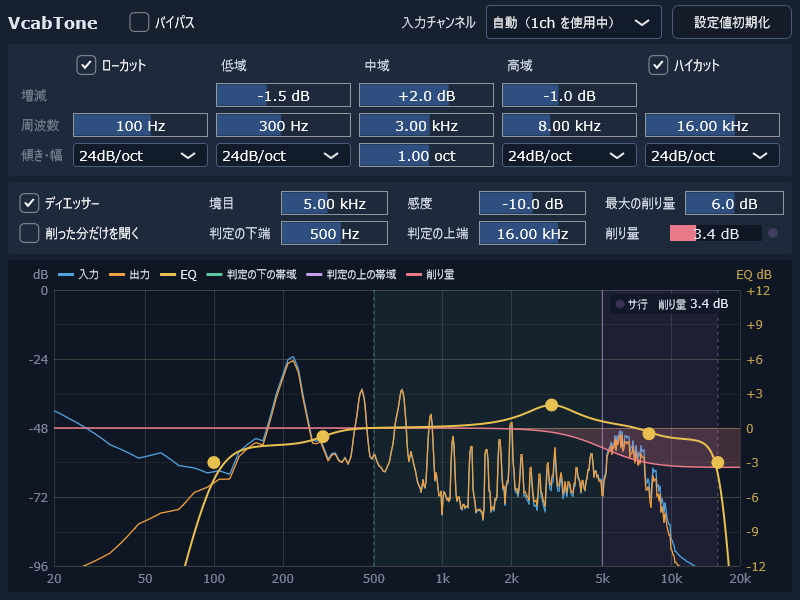
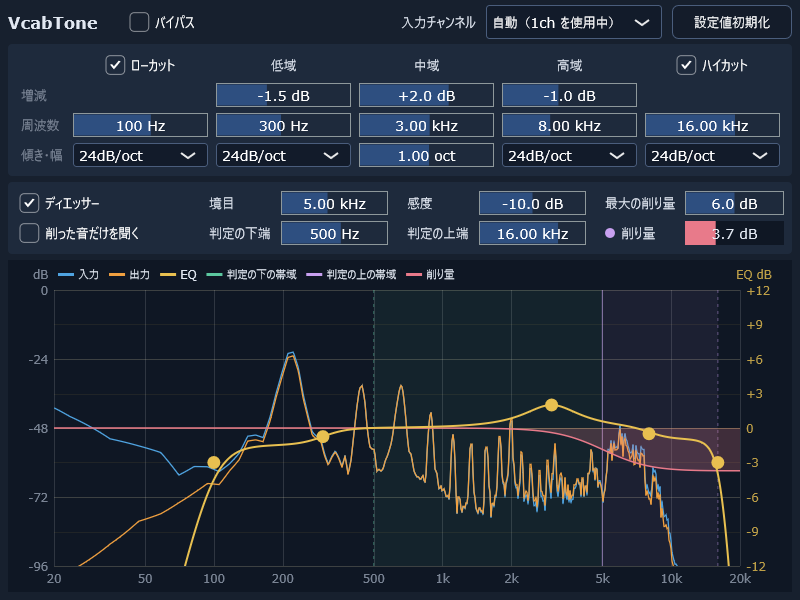
1.0.1

diff --git a/Source/Plugin/PluginEditor.cpp b/Source/Plugin/PluginEditor.cpp
@@ -12,6 +12,8 @@ constexpr int kInputComboWidth = 176; // VcabDenoise・VcabShift の入力チャ
 constexpr int kLabelInset = 5;        // Label の文字の左の余白（JUCE の標準）
 constexpr int kLabelGap = 10;         // 名前と部品の隙間
 constexpr int kTimerHz = 30;
+// チェックボックスの、文字より左の幅（LookAndFeel の drawToggleButton: 左の余白 4 ＋ 箱 ＋ 隙間）
+constexpr int kToggleBox = 4 + static_cast<int> (VCLookAndFeel::kMinFontSize * 1.1f) + 6;
 
 // EQ の 5 列（ローカット、低域、中域、高域、ハイカット）の、行ごとのパラメータ（count は空き）
 const vcab::P kEqGrid[5][3] = {
@@ -109,6 +111,7 @@ VcabToneEditor::VcabToneEditor (VcabToneProcessor& p)
         eqTitles[k].setText (utf8 (vcab::paramInfo (titled[k]).name), juce::dontSendNotification);
         eqTitles[k].setColour (juce::Label::textColourId, kText);
         eqTitles[k].setTooltip (utf8 (vcab::paramInfo (titled[k]).help));
+        eqTitles[k].setJustificationType (juce::Justification::centred);
         addAndMakeVisible (eqTitles[k]);
     }
     for (const auto& column : kEqGrid)
@@ -126,7 +129,7 @@ VcabToneEditor::VcabToneEditor (VcabToneProcessor& p)
     control (vcab::P::deessHigh)->slider->limit = [this] (double v)
     { return std::max (v, static_cast<double> (proc.value (vcab::P::deessSplit) * vcab::kDeessMinRatio)); };
 
-    listenButton.setButtonText (utf8 ("削った分だけを聞く"));
+    listenButton.setButtonText (utf8 ("削った音だけを聞く"));
     listenButton.setTooltip (utf8 ("ディエッサーが削った音だけを出します（何を削っているかを耳で確かめるため）。"
                                    "母音まで聞こえたら、削りすぎです（感度を上げるか、最大の削り量を下げます）。設定には保存しません。"));
     listenButton.setToggleState (proc.listenRemoved.load(), juce::dontSendNotification);
@@ -186,18 +189,17 @@ VcabToneEditor::Control* VcabToneEditor::control (vcab::P id)
 
 void VcabToneEditor::CutMeter::paint (juce::Graphics& g)
 {
+    // 左: サ行の検出のランプと「削り量」。バーは、上の「最大の削り量」のつまみと同じ位置・大きさ
     auto r = getLocalBounds().toFloat();
     const float maxDb = vcab::paramInfo (vcab::P::deessMaxCut).maxValue;
     const float cut = graph.displayCutDb();
     g.setFont (juce::FontOptions (kFont));
-    g.setColour (kText);
-    auto labelBox = r.removeFromLeft (70.0f);
-    g.drawText (utf8 ("削り量"), labelBox.withTrimmedLeft (kLabelInset), juce::Justification::centredLeft);
-    // 右端にサ行の検出の印
-    auto mark = r.removeFromRight (22.0f);
+    auto labelBox = r.removeFromLeft (static_cast<float> (labelWidth));
+    const auto lamp = juce::Rectangle<float> (10.0f, 10.0f).withCentre ({ labelBox.getX() + kLabelInset + 5.0f, labelBox.getCentreY() });
     g.setColour (graph.sibilantLit() ? kSibilantColour : kSibilantColour.withAlpha (0.18f));
-    g.fillEllipse (juce::Rectangle<float> (10.0f, 10.0f).withCentre (mark.getCentre()));
-    r = r.reduced (0.0f, 4.0f);
+    g.fillEllipse (lamp);
+    g.setColour (kText);
+    g.drawText (utf8 ("削り量"), labelBox.withTrimmedLeft (lamp.getRight() + 6.0f - labelBox.getX()), juce::Justification::centredLeft);
     g.setColour (kGraph);
     g.fillRect (r);
     g.setColour (kCutColour);
@@ -261,11 +263,14 @@ void VcabToneEditor::resized()
         {
             auto col = s.removeFromLeft (colW);
             s.removeFromLeft (gap);
+            // 見出しは列の真ん中にそろえる（カットはチェックボックスの箱と文字をまとめて真ん中に）
             auto title = col.removeFromTop (kRow).reduced (0, 3);
-            if (c == 0)
-                control (vcab::P::lowCutOn)->toggle->setBounds (title);
-            else if (c == 4)
-                control (vcab::P::highCutOn)->toggle->setBounds (title);
+            if (c == 0 || c == 4)
+            {
+                auto* t = control (c == 0 ? vcab::P::lowCutOn : vcab::P::highCutOn)->toggle.get();
+                const int w = juce::jmin (title.getWidth(), kToggleBox + textWidth (t->getButtonText()) + 4);
+                t->setBounds (title.withSizeKeepingCentre (w, title.getHeight()));
+            }
             else
                 eqTitles[c - 1].setBounds (title);
             for (int row = 0; row < 3; ++row)
@@ -283,7 +288,7 @@ void VcabToneEditor::resized()
         }
     }
 
-    // ディエッサーの帯（2 行）: オン/オフ・削った分だけを聞く ｜ 境目・判定の下端 ｜ 感度・判定の上端 ｜ 最大の削り量・メーター
+    // ディエッサーの帯（2 行）: オン/オフ・削った音だけを聞く ｜ 境目・判定の下端 ｜ 感度・判定の上端 ｜ 最大の削り量・メーター
     r.removeFromTop (6);
     deessArea = r.removeFromTop (kRow * 2 + 12);
     {
@@ -322,6 +327,7 @@ void VcabToneEditor::resized()
         place (vcab::P::deessHigh, col2.removeFromTop (kRow), l2);
         const int l3 = labelW ({ vcab::P::deessMaxCut });
         place (vcab::P::deessMaxCut, col3.removeFromTop (kRow), l3);
+        meter.labelWidth = l3;
         meter.setBounds (col3.removeFromTop (kRow).reduced (0, 3));
     }
 
@@ -350,7 +356,7 @@ void VcabToneEditor::timerCallback()
     dim (vcab::P::highCutSlope, s.eq.highCutOn);
     for (auto id : { vcab::P::deessSplit, vcab::P::deessSensitivity, vcab::P::deessMaxCut, vcab::P::deessLow, vcab::P::deessHigh })
         dim (id, s.deess.on);
-    // バイパスのとき、削った分だけを聞くは効かない
+    // バイパスのとき、削った音だけを聞くは効かない
     listenButton.setEnabled (! s.bypass && s.deess.on);
     meter.repaint();
 

diff --git a/Source/Plugin/GraphView.cpp b/Source/Plugin/GraphView.cpp
@@ -398,20 +398,7 @@ void GraphView::paint (juce::Graphics& g)
     }
 
     g.restoreState();
-
-    // 右上: サ行の検出と削り量（グラフの中）
-    {
-        const bool lit = sibilantLit() && d.on;
-        const auto text = utf8 ("サ行") + utf8 ("　削り量 ") + juce::String (shownCut, 1) + " dB";
-        const float w = juce::GlyphArrangement::getStringWidth (g.getCurrentFont(), text) + 26.0f;
-        const auto box = juce::Rectangle<float> (a.getRight() - w - 4.0f, a.getY() + 4.0f, w, 20.0f);
-        g.setColour (kGraph.withAlpha (0.8f));
-        g.fillRect (box);
-        g.setColour (lit ? kSibilantColour : kSibilantColour.withAlpha (0.2f));
-        g.fillEllipse (juce::Rectangle<float> (9.0f, 9.0f).withCentre ({ box.getX() + 10.0f, box.getCentreY() }));
-        g.setColour (d.on ? kText : kDim);
-        g.drawText (text, box.withTrimmedLeft (18.0f), juce::Justification::centredLeft);
-    }
+    // サ行の検出と削り量の数字は、ディエッサーの帯のメーターに出す（グラフには出さない。2026-11-26）
 }
 
 void GraphView::setParam (vcab::P id, float v)

diff --git a/Tools/Render/Main.cpp b/Tools/Render/Main.cpp
@@ -3,7 +3,7 @@
 // キーは Params.cpp の key（例: low_cut_freq=120 mid_gain=2 deess_sensitivity=-15）。値は表の範囲（つまみの範囲）に収める（収めたときは知らせる）。
 // 入力が 2 チャンネル以上のときは、input_channel の 1ch（初期値の「自動」も 1ch）/ 2ch / 平均 で 1 チャンネルにする。
 // --block n: 1 回に処理する標本の数（初期値 256）。
-// --listen: 削った分だけを聞く。
+// --listen: 削った音だけを聞く。
 // --trace: ディエッサーの区切り（約 1ms）ごとの { 時刻, 上の帯域, 下の帯域, 平均, 雑音, 目標の削り量, 声, サ行らしい } を CSV に書く（dB）。
 // --response: その設定の EQ の特性（周波数と dB）を CSV に書く（画面の曲線と同じ計算）。
 // --set-at 秒 キー=値: その時刻から設定を変える（複数可。つまみを動かしたときのなめらかさを確かめるため）。

diff --git a/Source/Core/Engine.h b/Source/Core/Engine.h
@@ -1,4 +1,4 @@
-// 全体の処理（2 章）: EQ → ディエッサー → 「削った分だけを聞く」とバイパスのクロスフェード。
+// 全体の処理（2 章）: EQ → ディエッサー → 「削った音だけを聞く」とバイパスのクロスフェード。
 // 入力チャンネルの選択はプラグインの側（PluginProcessor::mixToMono。VcabDenoise と同じ形）で行い、ここには 1 チャンネルを渡す。
 // JUCE には依存しない。遅延は 0。
 #pragma once
@@ -25,7 +25,7 @@ class Engine
 public:
     void prepare (double fs, int maxBlock);
     void setSettings (const Settings& s);
-    // 削った分だけを聞く（設定には保存しない。6.3）
+    // 削った音だけを聞く（設定には保存しない。6.3）
     void setListenRemoved (bool on) { listenRemoved = on; }
 
     // data: 入力（1 チャンネル）を受け取り、出力に書き換える

diff --git a/Source/Plugin/PluginProcessor.h b/Source/Plugin/PluginProcessor.h
@@ -82,7 +82,7 @@ public:
     double sampleRate() const { return currentSampleRate.load(); }
     SpectrumFifo inputFifo, outputFifo;
     std::atomic<int> usedInputChannel { 0 }; // 自動のときに使っている入力チャンネル（0 = 1ch、1 = 2ch）
-    // 削った分だけを聞く（確かめるための切り替え。設定には保存しない。6.3）
+    // 削った音だけを聞く（確かめるための切り替え。設定には保存しない。6.3）
     std::atomic<bool> listenRemoved { false };
 
     // EXE 版だけ、外枠が入れる。音声の設定画面を開く（VST3 では空のまま）

diff --git a/Tools/Shot/Main.cpp b/Tools/Shot/Main.cpp
@@ -3,7 +3,7 @@
 // --at: 何秒流したところで撮るか（初期値 2 秒）
 // --tooltip x,y: 画面の中の (x, y) にマウスを乗せたときのツールチップも描き込む（出る位置の確かめ用）
 // --scale n: n 倍の解像度で描く（紹介画像用。初期値 1）
-// --listen: 削った分だけを聞く をオンにして撮る
+// --listen: 削った音だけを聞く をオンにして撮る
 #include "PluginProcessor.h"
 
 #include <juce_audio_formats/juce_audio_formats.h>

diff --git a/Source/Core/Engine.cpp b/Source/Core/Engine.cpp
@@ -7,7 +7,7 @@ namespace vcab
 
 namespace
 {
-constexpr double kMixSeconds = 0.010; // バイパスと「削った分だけを聞く」の切り替え（VcabDenoise と同じ 10ms）
+constexpr double kMixSeconds = 0.010; // バイパスと「削った音だけを聞く」の切り替え（VcabDenoise と同じ 10ms）
 }
 
 void Engine::prepare (double sampleRate, int block)

diff --git a/Source/Plugin/PluginEditor.h b/Source/Plugin/PluginEditor.h
@@ -52,6 +52,7 @@ private:
     public:
         explicit CutMeter (GraphView& g) : graph (g) {}
         void paint (juce::Graphics&) override;
+        int labelWidth = 70; // 名前の欄の幅（上の「最大の削り量」の名前の欄と同じにする）
     private:
         GraphView& graph;
     };

diff --git a/CLAUDE.md b/CLAUDE.md
@@ -1,6 +1,6 @@
 # VcabTone 仕様
 
-最終更新: 2026-11-25（中域の初期値を 3kHz、高域を 8kHz・範囲を 6〜14kHz に（3 章）。ディエッサーの感度 -10dB と最大の削り量 6dB はこのまま（4.5））。2026-11-25（低域・高域の傾きの初期値を 24 に（3 章））。2026-11-25（1.0.0 を作った。作るときに決めた値は 3 章の「傾きの作り方」、6.4、11 章）。2026-11-25（35 本の声で測り、境目の初期値を 5kHz、判定の下端を 500Hz に決めた。削るかどうかを「その瞬間の上下の比」で決める条件を足した（4.1、4.5）。声とみなす下限を -80dBFS に。2 本目の帯域は作らない。測った結果は 9.1）。2026-11-25（最初の版。名前は VcabTone、EQ の帯域は低域・中域・高域に決定。まだ作っていない。数値のうち「測って決める」と書いたものは仮）
+最終更新: 2026-11-26（1.0.1 を公開（7、11 章））。2026-11-25（1.0.0 を公開（11 章））。2026-11-25（中域の初期値を 3kHz、高域を 8kHz・範囲を 6〜14kHz に（3 章）。ディエッサーの感度 -10dB と最大の削り量 6dB はこのまま（4.5））。2026-11-25（低域・高域の傾きの初期値を 24 に（3 章））。2026-11-25（1.0.0 を作った。作るときに決めた値は 3 章の「傾きの作り方」、6.4、11 章）。2026-11-25（35 本の声で測り、境目の初期値を 5kHz、判定の下端を 500Hz に決めた。削るかどうかを「その瞬間の上下の比」で決める条件を足した（4.1、4.5）。声とみなす下限を -80dBFS に。2 本目の帯域は作らない。測った結果は 9.1）。2026-11-25（最初の版。名前は VcabTone、EQ の帯域は低域・中域・高域に決定。まだ作っていない。数値のうち「測って決める」と書いたものは仮）
 
 EQ とディエッサーを 1 つにまとめたプラグイン。VcabDenoise、VcabShift と同じ作りにする。
 
@@ -193,7 +193,7 @@ EQ とディエッサーを 1 つにまとめたプラグイン。VcabDenoise、
 |---|---|
 | 入力チャンネル | 5 章 |
 | バイパス | 5 章 |
-| 削った分だけを聞く | 確かめるための切り替え。設定には保存しない（7 章） |
+| 削った音だけを聞く | 確かめるための切り替え。設定には保存しない（7 章） |
 
 ### 6.4 内部の値（つまみにしない）
 
@@ -215,9 +215,10 @@ EQ とディエッサーを 1 つにまとめたプラグイン。VcabDenoise、
 
 - 処理の前後のスペクトル（表示のためだけの FFT。音には関係しない）
 - EQ の特性の曲線
-- ディエッサーの削り量のメーターと、子音を検出した印
+- ディエッサーの削り量のメーターと、子音を検出した印（メーターは「最大の削り量」のつまみの下に、同じ位置・大きさで置き、検出のランプは名前の左。2026-11-26。ユーザーの指示）。グラフの右上にも同じ数字とランプを出していたが、重複なので外した（2026-11-26。ユーザーの指摘）。グラフには削っている量の赤い塗りだけを出す
+- EQ の 5 列の見出し（ローカット、低域、中域、高域、ハイカット）は、列の真ん中にそろえる（2026-11-26。ユーザーの指示）
 - ディエッサーの判定の帯域: 下の帯域（判定の下端〜境目）を緑、上の帯域（境目〜判定の上端）を紫で薄く塗る。境目は実線、両端は点線（2026-11-25。ユーザーの指示）
-- **削った分だけを聞く**ボタン。何を削っているかを耳で確かめるため（VcabDenoise の「抑制ノイズ試聴」と同じ考え方）
+- **削った音だけを聞く**ボタン（2026-11-26 に「削った分だけを聞く」から名前を変えた。ユーザーの指示）。何を削っているかを耳で確かめるため（VcabDenoise の「抑制ノイズ試聴」と同じ考え方）
 - 見た目、色、つまみの形は、VcabDenoise、VcabShift にそろえる
 
 ## 8. 入れないもの・あとで足すかもしれないもの
@@ -296,14 +297,14 @@ cmake --build build --config Release --target VcabTone_VST3 VcabTone_Standalone 
 
 - `Source/Core/`（JUCE に依存しない）
   - `Params.*`: パラメータの表と、処理に渡す設定（Settings）。判定の下端 < 境目 < 判定の上端は、画面ではバーを止め（6.2）、`Settings::fromValues` でも守る（上端を境目の 1.25 倍より下にしない。つまみの値は書き換えない）。
-  - `Engine.*`: 全体。EQ → ディエッサー → 「削った分だけを聞く」（ディエッサーの前 − 後）とバイパスのクロスフェード（どちらも 10ms の直線。VcabDenoise と同じ）。バイパスの間も EQ とディエッサーは動かし続ける（戻したとき、すぐに効くように）。申告より大きな塊は区切って処理する。
+  - `Engine.*`: 全体。EQ → ディエッサー → 「削った音だけを聞く」（ディエッサーの前 − 後）とバイパスのクロスフェード（どちらも 10ms の直線。VcabDenoise と同じ）。バイパスの間も EQ とディエッサーは動かし続ける（戻したとき、すぐに効くように）。申告より大きな塊は区切って処理する。
   - `Dsp/Biquad.*`: 双二次（直接形 I、倍精度）と係数の設計。アナログの原型を、周波数をそろえた双一次変換で写す（RBJ の Audio EQ Cookbook と同じ値）。周波数は標本化周波数の 0.45 倍で頭打ち。
   - `Dsp/Eq.*`: EQ（3 章）。双二次 9 段（ローカット 2、低域 2、中域 1、高域 2、ハイカット 2。使わない段は素通し）。音の処理と画面の曲線で、同じ `Eq::design` を使う。
   - `Dsp/DeEsser.*`: ディエッサー（4 章）。
   - `Dsp/MathConstants.h`: 円周率。
-- `Source/Plugin/`: プラグイン（PluginProcessor、PluginEditor、GraphView、LookAndFeel、EditorStyle.h）。入力チャンネルの選択（`mixToMono`）は VcabDenoise 1.2.5 と同じコード。バイパスはホストのバイパスと同じパラメータ（`getBypassParameter`。VcabDenoise と同じ）。「削った分だけを聞く」はパラメータにせず、プロセッサの atomic に持つ（保存しない）。
+- `Source/Plugin/`: プラグイン（PluginProcessor、PluginEditor、GraphView、LookAndFeel、EditorStyle.h）。入力チャンネルの選択（`mixToMono`）は VcabDenoise 1.2.5 と同じコード。バイパスはホストのバイパスと同じパラメータ（`getBypassParameter`。VcabDenoise と同じ）。「削った音だけを聞く」はパラメータにせず、プロセッサの atomic に持つ（保存しない）。
 - `Source/Standalone/`: EXE 版の外枠（VcabShift のものと同じ。クラスの名前だけ替えた）。
-- `Tools/Render/`: WAV の処理ツール（vcabtn_render）。`Tools/Shot/`: 画面の撮影ツール（vcabtn_shot。`--listen` で「削った分だけを聞く」をオンにして撮る）。どちらも Windows では引数を UTF-8 で受け取る（wmain）。
+- `Tools/Render/`: WAV の処理ツール（vcabtn_render）。`Tools/Shot/`: 画面の撮影ツール（vcabtn_shot。`--listen` で「削った音だけを聞く」をオンにして撮る）。どちらも Windows では引数を UTF-8 で受け取る（wmain）。
 - `Tools/Icon/make_icon.py`: アイコン（VoiChanAlgoBox のアイコンに、EQ の線と同じ黄色 #e8c050 の帯と、白の「TONE」）。
 
 ### 係数の決め方（3 章の「傾きの作り方」）
@@ -332,7 +333,7 @@ cmake --build build --config Release --target VcabTone_VST3 VcabTone_Standalone 
 - 雑音（4.4）: 下の帯域の強さ（dB）が今の雑音より小さければ、すぐその値にする。大きければ 3dB/秒で上がる（今の値は超えない）。最初の区切りの値から始める。
 - 削り量は dB のまま、1 標本ごとに追う（立ち上がり 0.33ms、戻り 20ms の時定数）。
 - 削るシェルフ（2 次、Q 0.707、境目で削り量の半分）は、8 標本ごとに、削り量が 0.005dB 以上変わったら作り直す。境目を動かしたときは、シェルフの位置を時定数 20ms で追う。削っていない間は素通しの係数。
-- 画面の「サ行」の印: その区切りがサ行らしく（4.5 の -3dB）、上の帯域が雑音より 12dB 以上大きいとき（無音の雑音で灯らないように）。
+- 「削り量」のメーターの左のランプ（サ行の検出）: その区切りがサ行らしく（4.5 の -3dB）、上の帯域が雑音より 12dB 以上大きいとき（無音の雑音で灯らないように）。
 
 ### 確かめ方
 
@@ -345,6 +346,11 @@ cmake --build build --config Release --target VcabTone_VST3 VcabTone_Standalone 
 
 - 負荷（vcabtn_render、72 秒の録音）: 48kHz で実時間の 0.2%、44.1kHz で 0.12%、96kHz で 0.26%。
 - ディエッサー（9.1 の男性の地声の録音と、それをボイチェンに通した声。初期値）: 母音らしい区切り（今の比 -6dB 以下）で削った区切りは 0。ささやき声のサ行は、普通の声のサ行より多く削れる（9.1 の見込みどおり）。44.1kHz・96kHz でも同じ（削り量の差 0.2dB 以内）。数値は CLAUDE.local.md。
+
+### 公開
+
+- 2026-11-25 に xelloss120/VcabTone として公開した（v1.0.0）。手元の publish ブランチ（履歴なし）を GitHub の main に push する設定（VcabShift と同じ）。更新も publish に積んで push する。Private で作って中身を確かめてから Public にし、リリース v1.0.0 に VcabTone-1.0.0-win64.zip を付けた（上げた zip を取り直してハッシュが一致）。pluginval 1.0.4 の厳しさ 10 にリリース版・デバッグ版とも合格。
+- 2026-11-26 に 1.0.1 を公開した（ユーザーの指示）。画面だけの変更（EQ の見出しを列の真ん中に、「削った音だけを聞く」に改名、削り量のメーターを「最大の削り量」のつまみにそろえてランプを左に、グラフの右上の重複した表示を外す）。音の処理は 1.0.0 と同じ（Source/Core の差はコメントだけ）。つまみは増えていないので 3 けた目。pluginval 1.0.4 の厳しさ 10 にリリース版・デバッグ版とも合格。
 
 ### まだのこと
 

diff --git a/README.md b/README.md
@@ -23,7 +23,7 @@
 | 高域 | 上のシェルフ。6〜14kHz、±6dB、6 / 12 / 24dB/oct |
 | ハイカット | 10〜20kHz、6 / 12 / 24dB/oct（初期値 16kHz、24dB/oct）。オン/オフ |
 | ディエッサー | サ行の強すぎる息の音を、その瞬間だけ、境目（初期値 5kHz）から上のシェルフで下げる。削る量の上限は 0〜12dB（初期値 6dB） |
-| 削った分だけを聞く | ディエッサーが削った音だけを出す（何を削っているかを耳で確かめるため。設定には保存しない） |
+| 削った音だけを聞く | ディエッサーが削った音だけを出す（何を削っているかを耳で確かめるため。設定には保存しない） |
 | 画面 | 入力と出力のスペクトルに、EQ の特性の曲線、ディエッサーが見ている帯域、いま削っている量を重ねて出す。EQ の点はドラッグで動かせる |
 
 ### ディエッサーの判定
@@ -84,7 +84,7 @@ vcabtn_render in.wav out.wav --trace trace.csv --listen
 ```
 
 - `--trace`: ディエッサーの判定（約 1ms ごとの上の帯域、下の帯域、平均、雑音、目標の削り量）を CSV に書く
-- `--listen`: 削った分だけを書き出す
+- `--listen`: 削った音だけを書き出す
 - `--response`: EQ の特性を CSV に書く
 - `--set-at 秒 キー=値`: 途中から設定を変える
 
